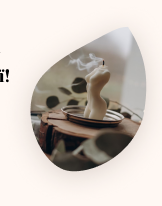
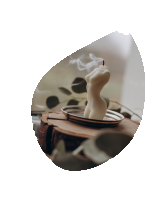
section about / made desctop style

Changed region(s): [[0.1543, 0.1165, 0.9568, 0.8738], [0.0, 0.3204, 0.0617, 0.4078]]

diff --git a/app/css/style.min.css b/app/css/style.min.css
@@ -1,1 +1,1 @@
-html{-webkit-box-sizing:border-box;box-sizing:border-box}*,*::after,*::before{-webkit-box-sizing:inherit;box-sizing:inherit}body{font-family:"Comfortaa",cursive;font-size:14px;font-weight:400;line-height:1.2;color:#000}a{text-decoration:none;color:inherit}ul{list-style:none}button{padding:0;border:none;border-radius:0;background-color:rgba(0,0,0,0)}.container{max-width:1180px;padding-left:10px;padding-right:10px;margin:0 auto;padding:0 10px}.header{background-color:#fff8f3}.header__inner{padding-top:4px;display:-webkit-box;display:-ms-flexbox;display:flex;-webkit-box-pack:justify;-ms-flex-pack:justify;justify-content:space-between;-webkit-box-align:center;-ms-flex-align:center;align-items:center}.menu__list{display:-webkit-box;display:-ms-flexbox;display:flex;gap:20px}.menu__list-link{text-transform:uppercase}.menu__btn{display:none;-webkit-box-orient:vertical;-webkit-box-direction:normal;-ms-flex-direction:column;flex-direction:column;-webkit-box-pack:justify;-ms-flex-pack:justify;justify-content:space-between;width:30px;height:25px}.menu__btn span{width:100%;height:1px;background-color:#7b6152}.phone{position:relative}.phone::before{position:absolute;content:"";background-image:url(../img/phone.svg);width:20px;height:20px;top:-3px;left:-23px}.main{background-color:#fff8f3}.top{padding:40px 0 150px}.top__inner{position:relative}.top__content{padding:150px 0 250px;width:370px}.top__title{margin-bottom:15px;font-family:"Yeseva One",cursive;font-size:30px}.top__text{margin-bottom:48px}.top__buy{padding:18px 54px;font-family:"Comfortaa",cursive;font-size:14px;font-weight:600;background-color:#ffbd59;cursor:pointer}.top__img{position:absolute;top:0;left:240px}.footer{padding-top:40px;padding-bottom:35px}.footer__inner{display:-webkit-box;display:-ms-flexbox;display:flex;-webkit-box-pack:justify;-ms-flex-pack:justify;justify-content:space-between;-webkit-box-align:center;-ms-flex-align:center;align-items:center}.footer__contacts{width:230px;display:-webkit-box;display:-ms-flexbox;display:flex;-webkit-box-orient:vertical;-webkit-box-direction:normal;-ms-flex-direction:column;flex-direction:column}.footer__social{display:-webkit-box;display:-ms-flexbox;display:flex;gap:15px}.email{margin:17px 0}@media(max-width: 1000px){.container{padding-left:20px;padding-right:20px}}@media(max-width: 900px){.footer__inner{-ms-flex-wrap:wrap;flex-wrap:wrap}.footer__contacts{padding-top:15px;width:100%;text-align:center}.footer__social{-webkit-box-pack:center;-ms-flex-pack:center;justify-content:center}}@media(max-width: 768px){body{font-size:10px}.container{max-width:640px}.phone::before{width:14px;height:14px;top:-2px;left:-16px;background-size:cover}}@media(max-width: 640px){.container{padding-left:10px;padding-right:10px}.header__menu{-webkit-box-ordinal-group:2;-ms-flex-order:1;order:1}.header__menu-list{position:absolute;top:0;left:0;width:153px;padding:25px 35px 25px 45px;-webkit-box-orient:vertical;-webkit-box-direction:normal;-ms-flex-direction:column;flex-direction:column;-webkit-transform:translateY(-110%);-ms-transform:translateY(-110%);transform:translateY(-110%);-webkit-transition:-webkit-transform .5s ease;transition:-webkit-transform .5s ease;transition:transform .5s ease;transition:transform .5s ease,-webkit-transform .5s ease;color:#fff8f3;background-color:#7b6152;z-index:5}.header__menu-list.menu--open{-webkit-transform:translateY(0%);-ms-transform:translateY(0%);transform:translateY(0%)}.menu__btn{display:-webkit-box;display:-ms-flexbox;display:flex}}@media(max-width: 500px){.footer{padding:50px 0;font-size:14px}.footer__inner{-webkit-box-orient:vertical;-webkit-box-direction:normal;-ms-flex-direction:column;flex-direction:column}.footer__menu{padding:50px 0;text-align:center}.footer__menu-list{-webkit-box-orient:vertical;-webkit-box-direction:normal;-ms-flex-direction:column;flex-direction:column}}
+html{-webkit-box-sizing:border-box;box-sizing:border-box}*,*::after,*::before{-webkit-box-sizing:inherit;box-sizing:inherit}body{font-family:"Comfortaa",cursive;font-size:14px;font-weight:400;line-height:1.2;color:#000}a{text-decoration:none;color:inherit}ul{list-style:none}button{padding:0;border:none;border-radius:0;background-color:rgba(0,0,0,0)}.container{max-width:1180px;padding-left:10px;padding-right:10px;margin:0 auto;padding:0 10px}.header{background-color:#fff8f3}.header__inner{padding-top:4px;display:-webkit-box;display:-ms-flexbox;display:flex;-webkit-box-pack:justify;-ms-flex-pack:justify;justify-content:space-between;-webkit-box-align:center;-ms-flex-align:center;align-items:center}.menu__list{display:-webkit-box;display:-ms-flexbox;display:flex;gap:20px}.menu__list-link{text-transform:uppercase}.menu__btn{display:none;-webkit-box-orient:vertical;-webkit-box-direction:normal;-ms-flex-direction:column;flex-direction:column;-webkit-box-pack:justify;-ms-flex-pack:justify;justify-content:space-between;width:30px;height:25px}.menu__btn span{width:100%;height:1px;background-color:#7b6152}.phone{position:relative}.phone::before{position:absolute;content:"";background-image:url(../img/phone.svg);width:20px;height:20px;top:-3px;left:-23px}.main{background-color:#fff8f3;overflow-x:clip}.top{padding:40px 0 150px}.top__inner{position:relative}.top__content{padding:150px 0 250px;width:370px}.top__title{margin-bottom:15px;font-family:"Yeseva One",cursive;font-size:30px}.top__text{margin-bottom:48px}.top__buy{padding:18px 54px;font-family:"Comfortaa",cursive;font-size:14px;font-weight:600;background-color:#ffbd59;cursor:pointer}.top__img{position:absolute;top:0;left:240px}.about{padding:50px 0;color:#fafafa;background-color:#a5978e}.about__inner{display:-webkit-box;display:-ms-flexbox;display:flex;-webkit-box-align:center;-ms-flex-align:center;align-items:center}.about__content{width:370px}.about__title{margin-bottom:15px;font-size:40px}.about__text{margin-bottom:15px}.about__list{position:relative;padding-left:110px;padding-bottom:48px;display:-webkit-box;display:-ms-flexbox;display:flex;-webkit-box-align:center;-ms-flex-align:center;align-items:center;gap:0 20px}.about__list::before{content:"";position:absolute;left:0;bottom:0;background-image:url(../img/decor.png);width:22px;height:30px}.about__list::after{content:"";position:absolute;left:22px;bottom:13px;width:1000%;height:1px;background-color:#7b6152}.about__item-img{margin-bottom:10px}.about__item-text{font-size:11px}.footer{padding-top:40px;padding-bottom:35px}.footer__inner{display:-webkit-box;display:-ms-flexbox;display:flex;-webkit-box-pack:justify;-ms-flex-pack:justify;justify-content:space-between;-webkit-box-align:center;-ms-flex-align:center;align-items:center}.footer__contacts{width:230px;display:-webkit-box;display:-ms-flexbox;display:flex;-webkit-box-orient:vertical;-webkit-box-direction:normal;-ms-flex-direction:column;flex-direction:column}.footer__social{display:-webkit-box;display:-ms-flexbox;display:flex;gap:15px}.email{margin:17px 0}@media(max-width: 1000px){.container{padding-left:20px;padding-right:20px}.top__content{padding:95px 0 70px;width:333px}.top__img{left:300px}.top__img-l{width:655px}.top__text{margin-bottom:30px}}@media(max-width: 900px){.footer__inner{-ms-flex-wrap:wrap;flex-wrap:wrap}.footer__contacts{padding-top:15px;width:100%;text-align:center}.footer__social{-webkit-box-pack:center;-ms-flex-pack:center;justify-content:center}}@media(max-width: 768px){body{font-size:10px}.container{max-width:640px}.phone::before{width:14px;height:14px;top:-2px;left:-16px;background-size:cover}.top__content{width:230px}.top__title{margin-bottom:20px;font-size:20px}.top__text{margin-bottom:20px;font-size:10px}.top__img{left:180px}}@media(max-width: 640px){.container{padding-left:10px;padding-right:10px}.header__menu{-webkit-box-ordinal-group:2;-ms-flex-order:1;order:1}.header__menu-list{position:absolute;top:0;left:0;width:153px;padding:25px 35px 25px 45px;-webkit-box-orient:vertical;-webkit-box-direction:normal;-ms-flex-direction:column;flex-direction:column;-webkit-transform:translateY(-110%);-ms-transform:translateY(-110%);transform:translateY(-110%);-webkit-transition:-webkit-transform .5s ease;transition:-webkit-transform .5s ease;transition:transform .5s ease;transition:transform .5s ease,-webkit-transform .5s ease;color:#fff8f3;background-color:#7b6152;z-index:5}.header__menu-list.menu--open{-webkit-transform:translateY(0%);-ms-transform:translateY(0%);transform:translateY(0%)}.menu__btn{display:-webkit-box;display:-ms-flexbox;display:flex}}@media(max-width: 480px){.top{padding:30px 0 50px}.top__content{width:180px}.top__title{margin-bottom:15px;font-size:15px}.top__text{margin-bottom:15px;font-size:8px}.top__img{left:167px}.top__img-l{width:309px}.top__buy{padding:14px 41px;font-size:10px}.footer{padding:50px 0;font-size:14px}.footer__inner{-webkit-box-orient:vertical;-webkit-box-direction:normal;-ms-flex-direction:column;flex-direction:column}.footer__menu{padding:50px 0;text-align:center}.footer__menu-list{-webkit-box-orient:vertical;-webkit-box-direction:normal;-ms-flex-direction:column;flex-direction:column}}@media(max-width: 360px){.top__content{padding:20px 0 0;width:200px}.top__title{font-size:18px}.top__text{font-size:10px}.top__img{left:auto;right:0}.top__img-l{width:180px}}

diff --git a/app/scss/style.scss b/app/scss/style.scss
@@ -92,6 +92,7 @@ button {
 
 .main {
   background-color: #fff8f3;
+  overflow-x: clip;
 }
 
 .top {
@@ -126,6 +127,59 @@ button {
   }
 }
 
+.about {
+  padding: 50px 0;
+  color: #fafafa;
+  background-color: #a5978e;
+
+  &__inner {
+    display: flex;
+    align-items: center;
+  }
+  &__content {
+    width: 370px;
+  }
+  &__title {
+    margin-bottom: 15px;
+    font-size: 40px;
+  }
+  &__text {
+    margin-bottom: 15px;
+  }
+  &__list {
+    position: relative;
+    padding-left: 110px;
+    padding-bottom: 48px;
+    display: flex;
+    align-items: center;
+    gap: 0 20px;
+  }
+  &__list::before {
+    content: "";
+    position: absolute;
+    left: 0;
+    bottom: 0;
+    background-image: url(../img/decor.png);
+    width: 22px;
+    height: 30px;
+  }
+  &__list::after {
+    content: "";
+    position: absolute;
+    left: 22px;
+    bottom: 13px;
+    width: 1000%;
+    height: 1px;
+    background-color: #7b6152;
+  }
+  &__item-img {
+    margin-bottom: 10px;
+  }
+  &__item-text {
+    font-size: 11px;
+  }
+}
+
 .footer {
   padding-top: 40px;
   padding-bottom: 35px;
@@ -156,6 +210,21 @@ button {
   .container {
     padding-left: 20px;
     padding-right: 20px;
+  }
+  .top {
+    &__content {
+      padding: 95px 0 70px;
+      width: 333px;
+    }
+    &__img {
+      left: 300px;
+    }
+    &__img-l {
+      width: 655px;
+    }
+    &__text {
+      margin-bottom: 30px;
+    }
   }
 }
 
@@ -189,6 +258,22 @@ button {
       top: -2px;
       left: -16px;
       background-size: cover;
+    }
+  }
+  .top {
+    &__content {
+      width: 230px;
+    }
+    &__title {
+      margin-bottom: 20px;
+      font-size: 20px;
+    }
+    &__text {
+      margin-bottom: 20px;
+      font-size: 10px;
+    }
+    &__img {
+      left: 180px;
     }
   }
 }
@@ -228,7 +313,31 @@ button {
   }
 }
 
-@media (max-width: 500px) {
+@media (max-width: 480px) {
+  .top {
+    padding: 30px 0 50px;
+    &__content {
+      width: 180px;
+    }
+    &__title {
+      margin-bottom: 15px;
+      font-size: 15px;
+    }
+    &__text {
+      margin-bottom: 15px;
+      font-size: 8px;
+    }
+    &__img {
+      left: 167px;
+    }
+    &__img-l {
+      width: 309px;
+    }
+    &__buy {
+      padding: 14px 41px;
+      font-size: 10px;
+    }
+  }
   .footer {
     padding: 50px 0;
     font-size: 14px;
@@ -245,10 +354,26 @@ button {
   }
 }
 
-@media (max-width: 480px) {
-}
-
 @media (max-width: 360px) {
+  .top {
+    &__content {
+      padding: 20px 0 0;
+      width: 200px;
+    }
+    &__title {
+      font-size: 18px;
+    }
+    &__text {
+      font-size: 10px;
+    }
+    &__img {
+      left: auto;
+      right: 0;
+    }
+    &__img-l {
+      width: 180px;
+    }
+  }
 }
 
 /** HEADER MEDIA ENDS **/

diff --git a/app/index.html b/app/index.html
@@ -70,8 +70,43 @@
           <button class="top__buy">Купити</button>
         </div>
         <picture class="top__img">
-          <img src="img/top-large.png" alt="candles">
+          <source srcset="img/top-small.png" media="(max-width: 360px)">
+          <source srcset="img/top-medium.png" media="(max-width: 480px)">
+          <img class="top__img-l" src="img/top-large.png" alt="candles">
         </picture>
+      </div>
+    </section>
+
+    <section class="about">
+      <div class="container about__inner">
+        <div class="about__content">
+          <h2 class="about__title">
+            Про нас
+          </h2>
+          <p class="about__text">
+            Богдан творець бренду який завжди зацікавлений у виготовленні різноманітних речей вдома. Він регулярно
+            експериментував з різними матеріалами та інструментами, спробувавши свої сили у багатьох галузях, включаючи
+            виготовлення свічок.
+          </p>
+          <p class="about__text">
+            Ссоєвий віск виготовляють із соєвих бобів, що зрощуються в Данії, і цей вид воску є екологічно чистим та
+            безпечним для здоров'я.
+          </p>
+        </div>
+        <ul class="about__list">
+          <li class="about__item">
+            <img class="about__item-img" src="img/about-1.jpg" alt="candle">
+            <p class="about__item-text">Насолоджуйтеся моментом</p>
+          </li>
+          <li class="about__item">
+            <img class="about__item-img" src="img/about-2.png" alt="candle">
+            <p class="about__item-text">Створіть улюблену атмосферу</p>
+          </li>
+          <li class="about__item">
+            <img class="about__item-img" src="img/about-3.jpg" alt="candle">
+            <p class="about__item-text">Виготовлені з любов'ю</p>
+          </li>
+        </ul>
       </div>
     </section>
   </main>
